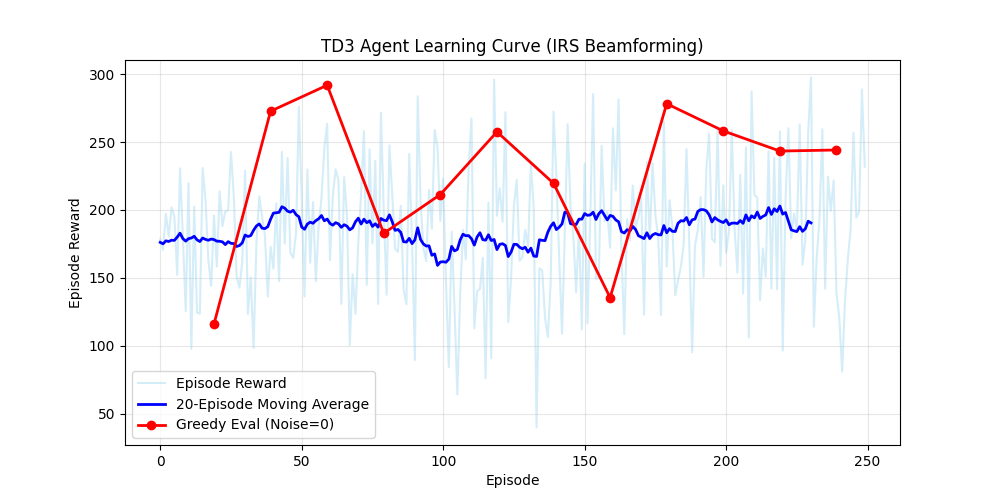
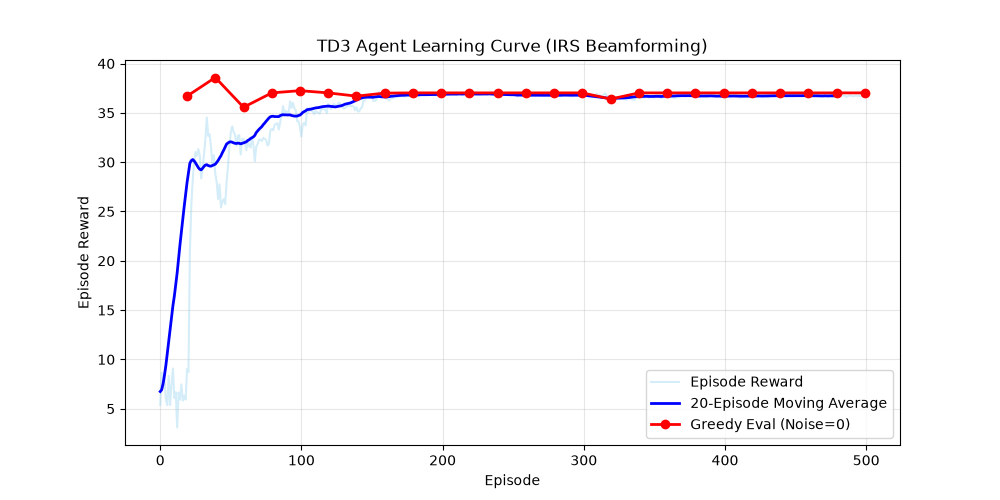
Intial commit

diff --git a/python/drl/td3_agent.py b/python/drl/td3_agent.py
@@ -50,7 +50,27 @@ class Actor(nn.Module):
             nn.Linear(hidden_dim, action_dim),
             nn.Tanh()
         )
-        
+        # self.net = nn.Sequential(
+        #     nn.Linear(state_dim, hidden_dim),
+        #     nn.LayerNorm(hidden_dim),
+        #     nn.ReLU(),
+        #     nn.Linear(hidden_dim, hidden_dim),
+        #     nn.LayerNorm(hidden_dim),
+        #     nn.ReLU(),
+        #     nn.Linear(hidden_dim, action_dim),
+        #     nn.Tanh()
+        # )
+        # self.apply(self._init_weights)
+
+    # def _init_weights(self, module):
+    #     if isinstance(module, nn.Linear):
+    #         nn.init.xavier_uniform_(module.weight)
+    #         if module.bias is not None:
+    #             nn.init.zeros_(module.bias)
+    #     elif isinstance(module, nn.LayerNorm):
+    #         nn.init.ones_(module.weight)
+    #         nn.init.zeros_(module.bias)
+
     def forward(self, state):
         return self.net(state)
 
@@ -73,6 +93,34 @@ class Critic(nn.Module):
             nn.ReLU(),
             nn.Linear(hidden_dim, 1)
         )
+        # self.q1 = nn.Sequential(
+        #     nn.Linear(state_dim + action_dim, hidden_dim),
+        #     nn.LayerNorm(hidden_dim),
+        #     nn.ReLU(),
+        #     nn.Linear(hidden_dim, hidden_dim),
+        #     nn.LayerNorm(hidden_dim),
+        #     nn.ReLU(),
+        #     nn.Linear(hidden_dim, 1)
+        # )
+        # self.q2 = nn.Sequential(
+        #     nn.Linear(state_dim + action_dim, hidden_dim),
+        #     nn.LayerNorm(hidden_dim),
+        #     nn.ReLU(),
+        #     nn.Linear(hidden_dim, hidden_dim),
+        #     nn.LayerNorm(hidden_dim),
+        #     nn.ReLU(),
+        #     nn.Linear(hidden_dim, 1)
+        # )
+        # self.apply(self._init_weights)
+
+    # def _init_weights(self, module):
+    #     if isinstance(module, nn.Linear):
+    #         nn.init.xavier_uniform_(module.weight)
+    #         if module.bias is not None:
+    #             nn.init.zeros_(module.bias)
+    #     elif isinstance(module, nn.LayerNorm):
+    #         nn.init.ones_(module.weight)
+    #         nn.init.zeros_(module.bias)
 
     def forward(self, state, action):
         sa = torch.cat([state, action], 1)
@@ -84,15 +132,19 @@ class Critic(nn.Module):
 
 class TD3Agent:
     def __init__(
-        self, 
-        state_dim, 
-        action_dim, 
-        lr=3e-4, 
-        gamma=0.99, 
-        tau=0.005, 
-        policy_noise=0.2, 
-        noise_clip=0.5, 
-        policy_freq=2, 
+        self,
+        state_dim,
+        action_dim,
+        lr=3e-4,
+        # actor_lr=None,
+        # critic_lr=None,
+        gamma=0.99,
+        tau=0.005,
+        policy_noise=0.2,
+        noise_clip=0.5,
+        policy_freq=2,
+        # hidden_dim=256,
+        # replay_buffer_capacity=300000,
         device='cpu'
     ):
         self.gamma = gamma
@@ -102,6 +154,12 @@ class TD3Agent:
         self.policy_freq = policy_freq
         self.device = torch.device(device)
         self.total_it = 0
+        # self.start_timesteps = 10000
+
+        # if actor_lr is None:
+        #     actor_lr = 1e-4
+        # if critic_lr is None:
+        #     critic_lr = lr
         
         self.actor = Actor(state_dim, action_dim).to(self.device)
         self.actor_target = Actor(state_dim, action_dim).to(self.device)

diff --git a/python/drl/irs_env.py b/python/drl/irs_env.py
@@ -38,28 +38,47 @@ class IRSEnv(gym.Env):
         self.channel_gain = 0.0
         self.channel_phase = 0.0
         self.cascaded_channel = np.ones(self.N, dtype=np.complex128)
-        self.direct_channel = 0.0j
+        self.direct_channel = 0+0j 
+
         
         self.env_model = SimRISChannel(environment=1, N=self.N) # Indoor Hotspot
         
         self.current_step = 0
-        self.max_steps = 100 
+        self.max_steps = 50
 
     def reset(self, seed=None, options=None):
         super().reset(seed=seed)
         self.current_step = 0
+
         
         self.current_phases = np.zeros(self.N, dtype=np.float32)
         self.prev_snr_db = 0.0
         self.channel_gain = 0.0
         self.channel_phase = 0.0
         
-        # SimRIS channels
-        H, G, D = self.env_model.generate_channel(self.bs_pos, self.ue_pos, self.irs_pos)
+        # SimRIS channels (fixed across episodes)
+        if not hasattr(self, "cached_channel"):
+            H, G, D = self.env_model.generate_channel(self.bs_pos, self.ue_pos, self.irs_pos)
+            self.cached_channel = (H, G, D)
+        H, G, D = self.cached_channel
+        # H, G, D = self.env_model.generate_channel(self.bs_pos, self.ue_pos, self.irs_pos)
+        print("\n========== CHANNEL DEBUG ==========")
+        print("||H||        =", np.linalg.norm(H))
+        print("||G||        =", np.linalg.norm(G))
+        print("|D|          =", np.abs(D[0, 0]))
+        print("||H*G||      =", np.linalg.norm(H.flatten() * G.flatten()))
+        print("|sum(H*G)|   =", np.abs(np.sum(H.flatten() * G.flatten())))
+        print("=======================================\n")
+
+        theta_opt=np.angle(self.cascaded_channel)
+        phi_opt=np.exp(1j*theta_opt)
+
+        gain_opt= np.sum(self.cascaded_channel * phi_opt) + self.direct_channel
+        snr_opt = np.sum(100 * np.abs(gain_opt)**2 / 10**(-12.4) + 1e-20)
         
         # H is (N, 1) Tx->RIS, G is (N, 1) RIS->Rx. Cascaded channel for each element is H_n * G_n
         self.cascaded_channel = (H.flatten() * G.flatten())
-        self.direct_channel = D[0, 0]
+        self.direct_channel = 0+0j
         
         return self._get_obs(), {}
 
@@ -116,7 +135,6 @@ class IRSEnv(gym.Env):
         # Since we use cascaded_channel directly, the gain is sum(cascaded * Phi)
         phi_diag = np.diag(Phi)
         gain = np.sum(self.cascaded_channel * phi_diag) + self.direct_channel
-        
         transmit_power_linear = 100.0  # 100 Watts
         power_linear = transmit_power_linear * (np.abs(gain)**2)
         
@@ -124,6 +142,17 @@ class IRSEnv(gym.Env):
         noise_power_linear = 10**(-12.4)
         snr_linear = power_linear / noise_power_linear
         snr_db = 10 * np.log10(snr_linear + 1e-20)
+
+        if self.current_step == 1:
+            gain_zero = np.sum(self.cascaded_channel) + self.direct_channel
+            snr_zero = 10 * np.log10(100 * np.abs(gain_zero)**2 / noise_power_linear + 1e-20)
+            random_phi = np.exp(1j * np.random.uniform(-np.pi, np.pi, self.N))
+            gain_random = np.sum(self.cascaded_channel * random_phi) + self.direct_channel
+            snr_random = 10 * np.log10(100 * np.abs(gain_random)**2 / noise_power_linear + 1e-20)
+            
+            print(f"Zero SNR   : {snr_zero:.2f} dB")
+            print(f"Random SNR : {snr_random:.2f} dB")
+            print(f"Agent SNR  : {snr_db:.2f} dB")
         
         # Reward Formulation
         reward = snr_db / 20.0

diff --git a/python/drl/train_agent.py b/python/drl/train_agent.py
@@ -19,7 +19,7 @@ def main():
     
     agent = TD3Agent(state_dim=state_dim, action_dim=action_dim)
     
-    num_episodes = 250
+    num_episodes = 500
     batch_size = 128
     learning_starts = 1000
     